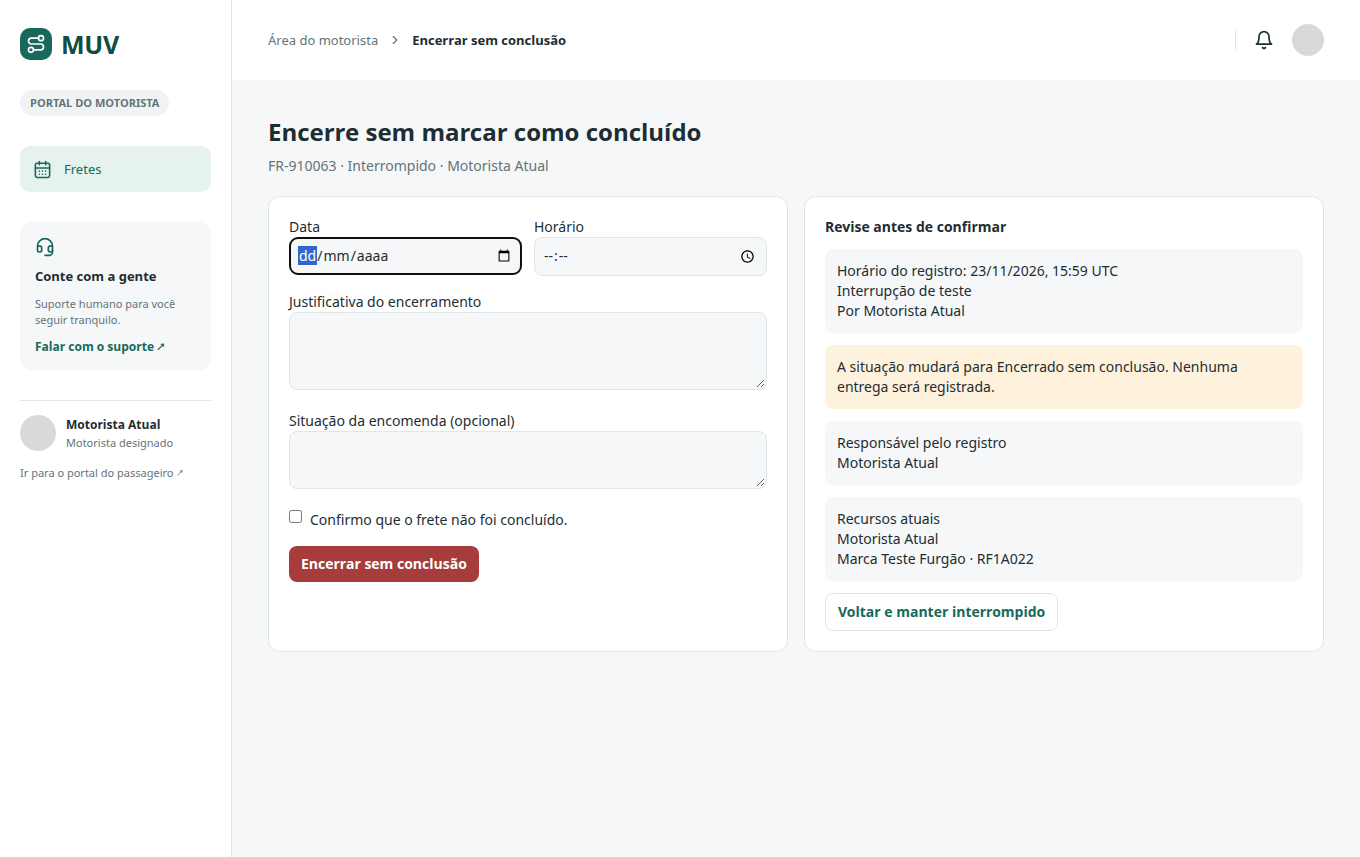
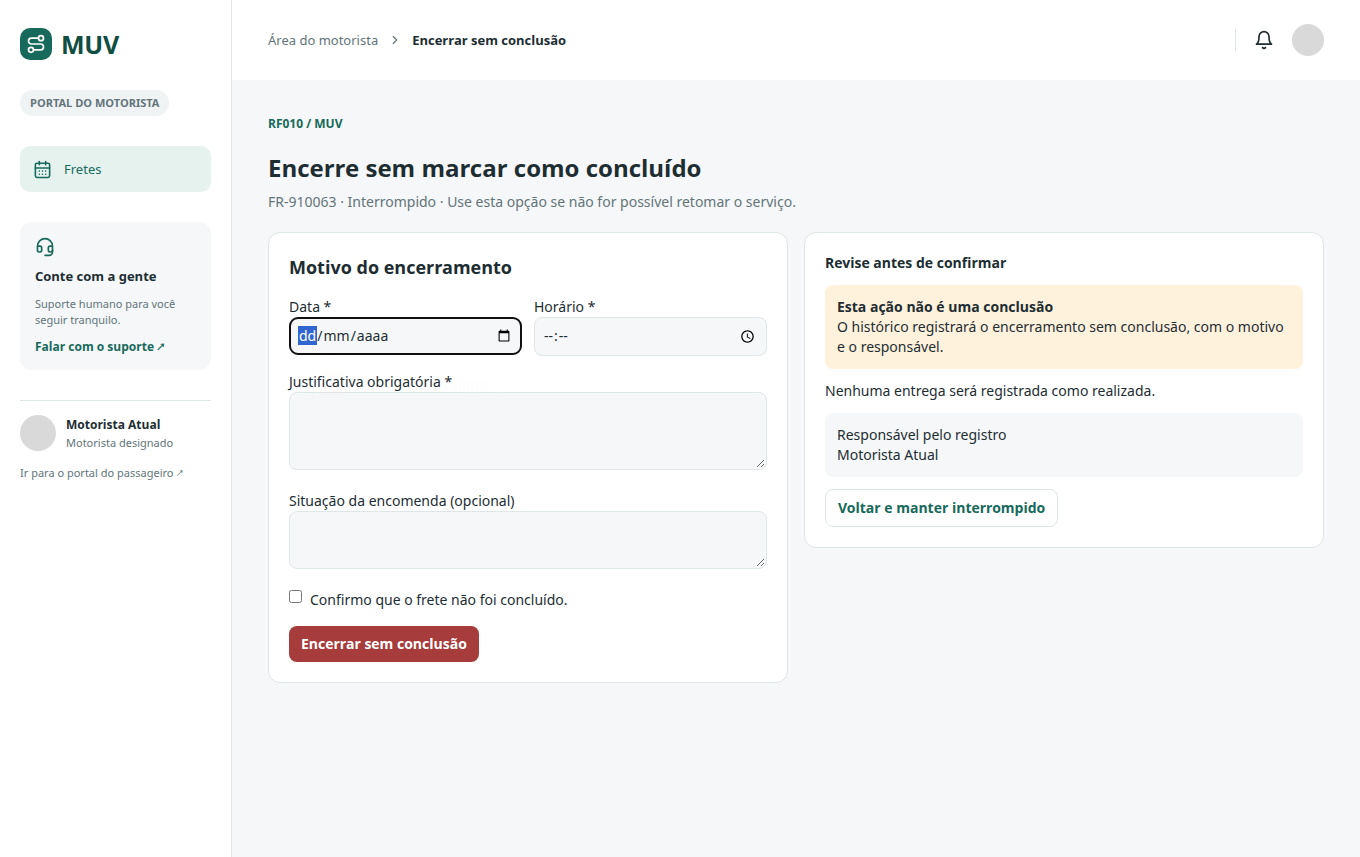
Avança na finalização do RF010

diff --git a/frontend/src/features/execucao/FormularioExecucao.tsx b/frontend/src/features/execucao/FormularioExecucao.tsx
@@ -37,6 +37,7 @@ export type DadosFormulario = {
   horario: string;
   confirmou: boolean;
   situacaoEncomenda?: string;
+  localOcorrencia?: string;
 };
 
 type Props = {
@@ -71,6 +72,7 @@ export function FormularioExecucao({
       acao, texto: String(campos.get("texto") ?? ""), data: String(campos.get("data") ?? ""),
       horario: String(campos.get("horario") ?? ""), confirmou: campos.has("confirmou"),
       situacaoEncomenda: situacao.trim() ? situacao : undefined,
+      localOcorrencia: String(campos.get("localOcorrencia") ?? "").trim() || undefined,
     };
   }
 
@@ -134,7 +136,8 @@ export function FormularioExecucao({
           </label>
           {!interrompido && <label className="block text-sm font-medium">
             Local da ocorrência
-            <input className={campo} disabled placeholder="Indisponível para registro" />
+            <input name="localOcorrencia" className={campo} defaultValue={rascunho?.localOcorrencia}
+              disabled={enviando} readOnly={somenteReenvio} />
           </label>}
           {acao === "RETOMADA" && contexto.recursos && (
             <div className="rounded-lg bg-[#e5f2ee] p-3 text-sm">

diff --git a/frontend/src/features/execucao/AcompanhamentoExecucaoPage.tsx b/frontend/src/features/execucao/AcompanhamentoExecucaoPage.tsx
@@ -176,6 +176,12 @@ function ResumoExecucao({ dados, recibo, onAcao }: {
                 <li className="break-words py-3" key={evento.id}>
                   <p className="font-medium">{rotulos[evento.tipo]}</p>
                   <p>Por {evento.autor}</p>
+                  {evento.horarioInformado && <p>Horário informado: <time dateTime={evento.horarioInformado}>{
+                    new Intl.DateTimeFormat("pt-BR", { dateStyle: "short", timeStyle: "short", timeZone: "UTC" })
+                      .format(new Date(`${evento.horarioInformado}Z`))
+                  }</time></p>}
+                  {evento.localOcorrencia && <p>Local da ocorrência: {evento.localOcorrencia}</p>}
+                  {evento.situacaoEncomenda && <p>Situação da encomenda: {evento.situacaoEncomenda}</p>}
                   {evento.descricao && <p>{evento.descricao}</p>}
                   {evento.justificativa && <p>{evento.justificativa}</p>}
                 </li>

diff --git a/frontend/src/features/execucao/api.ts b/frontend/src/features/execucao/api.ts
@@ -18,6 +18,9 @@ export type EventoExecucao = {
   descricao: string | null;
   justificativa: string | null;
   horarioRegistro: string | null;
+  horarioInformado: string | null;
+  localOcorrencia: string | null;
+  situacaoEncomenda: string | null;
 };
 
 export type Acompanhamento = {
@@ -67,7 +70,7 @@ export type ComandoTransicao = ComandoInicio & {
   data: string;
   horario: string;
 } & ({ descricao: string } | { justificativa: string })
-  & ({ cicloExecucaoId: number } | { interrupcaoId: number; confirmou: boolean; situacaoEncomenda?: string });
+  & ({ cicloExecucaoId: number; localOcorrencia?: string } | { interrupcaoId: number; confirmou: boolean; situacaoEncomenda?: string });
 
 export type TransicaoConfirmada = {
   eventoId: number;

diff --git a/frontend/src/features/execucao/TransicaoFormulario.tsx b/frontend/src/features/execucao/TransicaoFormulario.tsx
@@ -41,7 +41,7 @@ export function TransicaoFormulario({ contexto, acao, onConfirmada, onVoltar, on
       tentativa.current ??= {
         ...base(),
         ...(usaCiclo
-          ? { cicloExecucaoId: referencia }
+          ? { cicloExecucaoId: referencia, localOcorrencia: dados.localOcorrencia }
           : { interrupcaoId: referencia, confirmou: dados.confirmou, situacaoEncomenda: dados.situacaoEncomenda }),
         ...(selecionada === "OCORRENCIA" ? { descricao: dados.texto } : { justificativa: dados.texto }),
         data: dados.data,

diff --git a/backend/src/main/java/com/muv/backend/execucao/ExecucaoFreteRepository.java b/backend/src/main/java/com/muv/backend/execucao/ExecucaoFreteRepository.java
@@ -58,6 +58,9 @@ public class ExecucaoFreteRepository {
     List<ExecucaoFreteService.Evento> consultarEventos(long freteId) {
         return db.sql("""
                 SELECT h.id, h.tipo_evento, autor.nome AS autor, h.descricao, h.justificativa,
+                       COALESCE(ro.data_hora_informada, ri.data_hora_informada, rr.data_hora_informada,
+                                re.data_hora_informada) AS horario_informado,
+                       COALESCE(ro.local_ocorrencia, ri.local_ocorrencia) AS local_ocorrencia, re.situacao_encomenda,
                        CASE WHEN ini.evento_id IS NOT NULL OR ro.evento_id IS NOT NULL OR ri.evento_id IS NOT NULL OR rr.evento_id IS NOT NULL
                               OR re.evento_id IS NOT NULL THEN h.data_hora END AS registro_utc
                 FROM historico_execucao_frete h
@@ -78,7 +81,9 @@ public class ExecucaoFreteRepository {
                     return new ExecucaoFreteService.Evento(
                             rs.getLong("id"), Acao.valueOf(rs.getString("tipo_evento")),
                             rs.getString("autor"), rs.getString("descricao"), rs.getString("justificativa"),
-                            registroUtc == null ? null : registroUtc.atOffset(ZoneOffset.UTC));
+                            registroUtc == null ? null : registroUtc.atOffset(ZoneOffset.UTC),
+                            rs.getObject("horario_informado", LocalDateTime.class),
+                            rs.getString("local_ocorrencia"), rs.getString("situacao_encomenda"));
                 })
                 .list();
     }
@@ -101,30 +106,30 @@ public class ExecucaoFreteRepository {
 
     record Recibo(Acao acao, long eventoId, long autorId, String texto, Long referenciaId,
                   Long revisaoDesignacao, String estadoAnterior, String estadoResultante,
-                  LocalDateTime dataHoraInformada, String situacaoEncomenda) {}
+                  LocalDateTime dataHoraInformada, String situacaoEncomenda, String localOcorrencia) {}
 
     Optional<Recibo> consultarRecibo(long freteId, UUID chave) {
         return db.sql("""
                 SELECT e.tipo_evento, r.evento_id, e.usuario_autor_id, CASE WHEN e.tipo_evento = 'OCORRENCIA' THEN e.descricao ELSE e.justificativa END AS texto, r.referencia_id,
-                       r.revisao_designacao, r.estado_anterior, r.estado_resultante, r.data_hora_informada, r.situacao_encomenda
+                       r.revisao_designacao, r.estado_anterior, r.estado_resultante, r.data_hora_informada, r.situacao_encomenda, r.local_ocorrencia
                 FROM (
                     SELECT frete_id, evento_id, ciclo_execucao_id AS referencia_id, revisao_designacao,
-                           estado_anterior, estado_resultante, data_hora_informada, CAST(NULL AS text) AS situacao_encomenda
+                           estado_anterior, estado_resultante, data_hora_informada, CAST(NULL AS text) AS situacao_encomenda, local_ocorrencia
                     FROM rf010_recibo_ocorrencia WHERE frete_id = :freteId AND chave_operacao = :chave
                     UNION ALL
-                    SELECT frete_id, evento_id, NULL, revisao_designacao, estado_anterior, estado_resultante, NULL, NULL
+                    SELECT frete_id, evento_id, NULL, revisao_designacao, estado_anterior, estado_resultante, NULL, NULL, NULL
                     FROM rf010_recibo_inicio WHERE frete_id = :freteId AND chave_operacao = :chave
                     UNION ALL
                     SELECT frete_id, evento_id, ciclo_execucao_id, revisao_designacao,
-                           estado_anterior, estado_resultante, data_hora_informada, CAST(NULL AS text)
+                           estado_anterior, estado_resultante, data_hora_informada, CAST(NULL AS text), local_ocorrencia
                     FROM rf010_recibo_interrupcao WHERE frete_id = :freteId AND chave_operacao = :chave
                     UNION ALL
                     SELECT frete_id, evento_id, interrupcao_id, revisao_designacao,
-                           estado_anterior, estado_resultante, data_hora_informada, CAST(NULL AS text)
+                           estado_anterior, estado_resultante, data_hora_informada, CAST(NULL AS text), NULL
                     FROM rf010_recibo_retomada WHERE frete_id = :freteId AND chave_operacao = :chave
                     UNION ALL
                     SELECT frete_id, evento_id, interrupcao_id, revisao_designacao,
-                           estado_anterior, estado_resultante, data_hora_informada, situacao_encomenda
+                           estado_anterior, estado_resultante, data_hora_informada, situacao_encomenda, NULL
                     FROM rf010_recibo_encerramento WHERE frete_id = :freteId AND chave_operacao = :chave
                 ) r
                 JOIN historico_execucao_frete e ON e.id = r.evento_id AND e.frete_id = r.frete_id
@@ -134,7 +139,7 @@ public class ExecucaoFreteRepository {
                         rs.getLong("usuario_autor_id"), rs.getString("texto"), rs.getObject("referencia_id", Long.class),
                         rs.getLong("revisao_designacao"), rs.getString("estado_anterior"),
                         rs.getString("estado_resultante"), rs.getObject("data_hora_informada", LocalDateTime.class),
-                        rs.getString("situacao_encomenda")))
+                        rs.getString("situacao_encomenda"), rs.getString("local_ocorrencia")))
                 .optional();
     }
 
@@ -162,7 +167,7 @@ public class ExecucaoFreteRepository {
     }
 
     void gravarRecibo(long freteId, Acao acao, UUID chave, long eventoId, Contexto contexto,
-                      Long referencia, LocalDateTime dataHoraInformada, String situacaoEncomenda) {
+                      Long referencia, LocalDateTime dataHoraInformada, String situacaoEncomenda, String localOcorrencia) {
         if (acao == Acao.INICIO) {
             db.sql("""
                     INSERT INTO rf010_recibo_inicio
@@ -187,13 +192,14 @@ public class ExecucaoFreteRepository {
                     (frete_id, chave_operacao, evento_id, %s, revisao_designacao,
                      estado_anterior, estado_resultante, data_hora_informada%s)
                 VALUES (:freteId, :chave, :eventoId, :referencia, :revisao, :anterior, :resultante, :dataHora%s)
-                """.formatted(tabela, colunaReferencia, encerramento ? ", situacao_encomenda" : "",
-                              encerramento ? ", :situacao" : ""))
+                """.formatted(tabela, colunaReferencia, encerramento ? ", situacao_encomenda" : acao.usaCicloExecucao() ? ", local_ocorrencia" : "",
+                              encerramento ? ", :situacao" : acao.usaCicloExecucao() ? ", :local" : ""))
                 .param("freteId", freteId).param("chave", chave).param("eventoId", eventoId)
                 .param("referencia", referencia).param("revisao", contexto.revisaoDesignacao())
                 .param("anterior", contexto.estado()).param("resultante", acao.estadoResultante())
                 .param("dataHora", dataHoraInformada);
         if (encerramento) insert = insert.param("situacao", situacaoEncomenda, java.sql.Types.VARCHAR);
+        if (acao.usaCicloExecucao()) insert = insert.param("local", localOcorrencia, java.sql.Types.VARCHAR);
         insert.update();
     }
 }

diff --git a/backend/src/main/java/com/muv/backend/execucao/TransicaoFreteService.java b/backend/src/main/java/com/muv/backend/execucao/TransicaoFreteService.java
@@ -26,7 +26,11 @@ public class TransicaoFreteService {
     public record Comando(
             UUID chaveOperacao, String estadoEsperado, Long revisaoDesignacao, Long cicloExecucaoId,
             String descricao, String justificativa, LocalDate data, LocalTime horario,
-            Long interrupcaoId, Boolean confirmou, String situacaoEncomenda) {
+            Long interrupcaoId, Boolean confirmou, String situacaoEncomenda, String localOcorrencia) {
+        public Comando {
+            localOcorrencia = localOcorrencia == null || localOcorrencia.isBlank() ? null : localOcorrencia.strip();
+        }
+
         String texto(Acao acao) {
             return acao == Acao.OCORRENCIA ? descricao : justificativa;
         }
@@ -69,6 +73,7 @@ public class TransicaoFreteService {
                     || !Objects.equals(original.revisaoDesignacao(), comando.revisaoDesignacao())
                     || !Objects.equals(original.referenciaId(), comando.referencia(acao))
                     || !Objects.equals(original.texto(), comando.texto(acao))
+                    || !Objects.equals(original.localOcorrencia(), comando.localOcorrencia())
                     || !Objects.equals(original.situacaoEncomenda(), comando.situacaoEncomenda())
                     || !Objects.equals(original.dataHoraInformada(), comando.dataHoraInformada())) {
                 throw conflito("A chave já foi usada em outra confirmação.");
@@ -82,6 +87,7 @@ public class TransicaoFreteService {
                 || !RegrasExecucao.dadosValidos(acao, comando.texto(acao), comando.data(),
                         comando.horario(), Boolean.TRUE.equals(comando.confirmou()))
                 || (!inicio && comando.horario().getNano() % 1_000 != 0)
+                || (comando.localOcorrencia() != null && !acao.usaCicloExecucao())
                 || (comando.situacaoEncomenda() != null
                     && (acao != Acao.ENCERRAMENTO_SEM_CONCLUSAO || !"ENCOMENDA".equals(frete.modalidade())))) {
             throw new ResponseStatusException(HttpStatus.BAD_REQUEST, "Verifique os dados e a confirmação do formulário.");
@@ -101,7 +107,7 @@ public class TransicaoFreteService {
 
         long eventoId = repositorio.gravarEvento(frete, autorId, acao, comando.texto(acao));
         repositorio.gravarRecibo(freteId, acao, comando.chaveOperacao(), eventoId, vigente,
-                referencia, comando.dataHoraInformada(), comando.situacaoEncomenda());
+                referencia, comando.dataHoraInformada(), comando.situacaoEncomenda(), comando.localOcorrencia());
         return new Resultado(eventoId, autorId, vigente.estado(), acao.estadoResultante());
     }
 

diff --git a/backend/src/test/java/com/muv/backend/execucao/TransicaoFreteIntegrationTest.java b/backend/src/test/java/com/muv/backend/execucao/TransicaoFreteIntegrationTest.java
@@ -210,6 +210,24 @@ class TransicaoFreteIntegrationTest {
     }
 
     @Test
+    void localEHorarioCivilFicamNoAcompanhamentoAutorizado() throws Exception {
+        var motorista = entrar("atual");
+        var rota = ROTA + "/ocorrencias";
+        var comando = dados(UUID.randomUUID()).replace("justificativa", "descricao")
+                .replace("}", ", \"localOcorrencia\":\"Km 44\"}");
+        var original = enviarComando(rota, motorista, comando, 200).getResponse().getContentAsString();
+        assertThat(enviarComando(rota, motorista, comando, 200).getResponse().getContentAsString()).isEqualTo(original);
+        enviarComando(rota, motorista, comando.replace("Km 44", "Km 45"), 409);
+        mvc.perform(get(ROTA).session(motorista.session())).andExpect(status().isOk())
+                .andExpect(jsonPath("$.eventos[0].localOcorrencia").value("Km 44"))
+                .andExpect(jsonPath("$.eventos[0].horarioInformado").value("2000-01-02T09:15:00"))
+                .andExpect(jsonPath("$.eventos[0].horarioRegistro").isNotEmpty());
+        var historico = mvc.perform(get("/api/historico-fretes").param("perfil", "CLIENTE")
+                        .session(entrar("cliente").session())).andExpect(status().isOk()).andReturn();
+        assertThat(historico.getResponse().getContentAsString()).doesNotContain("Km 44");
+    }
+
+    @Test
     void ocorrenciasComMesmoConteudoDistinguemReenvioDeNovaConfirmacao() throws Exception {
         var sessao = entrar("atual");
         String rota = ROTA + "/ocorrencias";
@@ -500,7 +518,7 @@ class TransicaoFreteIntegrationTest {
                 .andExpect(jsonPath("$.estado").value("ENCERRADO_SEM_CONCLUSAO"))
                 .andExpect(jsonPath("$.eventos[0].tipo").value("ENCERRAMENTO_SEM_CONCLUSAO"))
                 .andExpect(jsonPath("$.acoesElegiveis").isEmpty()).andReturn();
-        assertThat(consulta.getResponse().getContentAsString()).doesNotContain("No veículo");
+        assertThat(consulta.getResponse().getContentAsString()).contains("No veículo");
         var historico = mvc.perform(get("/api/historico-fretes").session(entrar("cliente").session())
                         .param("perfil", "CLIENTE"))
                 .andExpect(status().isOk()).andReturn().getResponse().getContentAsString();

diff --git a/backend/src/test/java/com/muv/backend/execucao/ExecucaoFreteIntegrationTest.java b/backend/src/test/java/com/muv/backend/execucao/ExecucaoFreteIntegrationTest.java
@@ -117,6 +117,38 @@ class ExecucaoFreteIntegrationTest {
                 .andExpect(jsonPath("$.acoesElegiveis").isEmpty());
     }
 
+    @Test
+    void consultaLegadoEmExecucaoSemEventoDeAbertura() throws Exception {
+        db.sql("DELETE FROM historico_execucao_frete WHERE id = 910073").update();
+        mvc.perform(get(execucao(910063)).session(login("empresa")))
+                .andExpect(status().isOk())
+                .andExpect(jsonPath("$.estado").value("EM_EXECUCAO"))
+                .andExpect(jsonPath("$.cicloExecucaoId").doesNotExist())
+                .andExpect(jsonPath("$.acoesElegiveis").isEmpty())
+                .andExpect(jsonPath("$.eventos[0].id").value(910074))
+                .andExpect(jsonPath("$.eventos[0].horarioRegistro").doesNotExist());
+    }
+
+    @Test
+    void designacaoDoAutonomoAindaBloqueiaOFluxoAntesDoInicio() throws Exception {
+        var sessao = login("autonomo");
+        var csrf = mvc.perform(get("/api/auth/csrf").session(sessao)).andExpect(status().isOk()).andReturn();
+        var token = json.readTree(csrf.getResponse().getContentAsString());
+        mvc.perform(post("/api/prestador/fretes/910064/designacao").session(sessao)
+                        .header(token.get("headerName").asString(), token.get("token").asString())
+                        .contentType("application/json")
+                        .content("""
+                                {"motoristaId":910011,"veiculoId":910021,"revisao":0}
+                                """))
+                .andExpect(status().is(422))
+                .andExpect(result -> assertThat(result.getResponse().getErrorMessage())
+                        .contains("A identidade de motorista do autônomo ainda não está associada"));
+        mvc.perform(get(execucao(910064)).session(sessao))
+                .andExpect(status().isOk())
+                .andExpect(jsonPath("$.estado").value("AGUARDANDO_DESIGNACAO"))
+                .andExpect(jsonPath("$.acoesElegiveis").isEmpty());
+    }
+
     private MockHttpSession login(String conta) throws Exception {
         String email = conta + "910@example.test";
         db.sql("UPDATE usuario SET senha = :senha WHERE email = :email")

diff --git a/backend/src/main/java/com/muv/backend/execucao/ExecucaoFreteService.java b/backend/src/main/java/com/muv/backend/execucao/ExecucaoFreteService.java
@@ -29,7 +29,8 @@ public class ExecucaoFreteService {
 
     public record Recursos(String motorista, String veiculo, String placa) {}
     public record Evento(long id, Acao tipo, String autor, String descricao, String justificativa,
-                         OffsetDateTime horarioRegistro) {}
+                         OffsetDateTime horarioRegistro, java.time.LocalDateTime horarioInformado,
+                         String localOcorrencia, String situacaoEncomenda) {}
     public record Acompanhamento(
             long freteId, String modalidade, String estado, long revisaoDesignacao,
             Recursos recursos, Long cicloExecucaoId, Long interrupcaoId, List<Evento> eventos,

diff --git a/backend/src/test/java/com/muv/backend/system/PercursoExecucaoNavigationTest.java b/backend/src/test/java/com/muv/backend/system/PercursoExecucaoNavigationTest.java
@@ -159,7 +159,7 @@ class PercursoExecucaoNavigationTest extends NavegacaoExecucaoFixture {
             driver.switchTo().newWindow(org.openqa.selenium.WindowType.TAB);
             driver.get(rota);
             clicar(driver, "Registrar interrupção");
-            tecladoECaptura(driver, "interrupcao", List.of("tipo","data","horario","texto","submit","voltar"));
+            tecladoECaptura(driver, "interrupcao", List.of("tipo","data","horario","texto","localOcorrencia","submit","voltar"));
             preencher(driver, "Interrupção de teste");
             clicar(driver, "Registrar e interromper execução");
             esperarTexto(driver, "Interrupção registrada.");

diff --git a/backend/src/test/java/com/muv/backend/system/EncerramentoFreteNavigationTest.java b/backend/src/test/java/com/muv/backend/system/EncerramentoFreteNavigationTest.java
@@ -70,7 +70,7 @@ class EncerramentoFreteNavigationTest extends NavegacaoExecucaoFixture {
             driver.navigate().refresh();
             verificarResultado(driver, 910062);
             assertThat(driver.findElement(By.tagName("main")).getText())
-                    .contains("Via segue bloqueada").doesNotContain("Sob guarda do prestador");
+                    .contains("Via segue bloqueada", "Sob guarda do prestador");
             assertThat(db.sql("""
                     SELECT situacao_encomenda FROM rf010_recibo_encerramento WHERE frete_id = 910062
                     """).query(String.class).single()).isEqualTo("Sob guarda do prestador");

diff --git a/openspec/changes/rf010-acompanhamento-execucao-ocorrencias/implementation-report.md b/openspec/changes/rf010-acompanhamento-execucao-ocorrencias/implementation-report.md
@@ -240,14 +240,39 @@ Para repetir a seleção de navegador documentada acima, incluir `PercursoExecuc
 
 Resultado final: **76 testes de backend, 9 Selenium e 9 Node aprovados**, sem falhas, erros ou casos ignorados nas seleções. Passaram também o build do frontend, o ESLint da feature, OpenSpec estrito e `git diff --check`. Foram fechados **3.3, 4.1, 5.3, 5.5, 6.1, 6.5, 7.1, 7.4 e 8.1**. O checklist passou de 21 para **30 de 39**. Permanecem abertos **1.4, 2.1, 2.3, 2.4, 4.5, 5.4, 6.2, 7.5 e 8.2**.
 
-### Referências aprovadas para a conferência visual
+### Comparação com os três JPEGs aprovados
 
-A dupla indicou os três JPEGs como referências aprovadas de desktop. Nesta pasta de trabalho estão disponíveis as seis capturas da aplicação. Os títulos abaixo foram lidos nas capturas da aplicação. Falta conferir os títulos nos JPEGs e registrar, lado a lado, campos, obrigatoriedade, textos, avisos, ações e painéis.
+As referências fornecidas pela dupla estão preservadas em `evidencias/referencias/`. O pareamento foi feito pelos títulos visíveis no conteúdo desktop dos JPEGs. Os nomes, placas, horários, frete e dados de encomenda da referência são exemplos. A aplicação usa os dados da sessão e do frete.
 
-| Título na aplicação | Desktop para comparação | Responsividade a 390 px |
-| --- | --- | --- |
-| Registre uma ocorrência | [Registro e interrupção](evidencias/interrupcao-1360.png) | [Painéis empilhados](evidencias/interrupcao-390.png) |
-| Retome a execução com segurança | [Retomada](evidencias/retomada-1360.png) | [Painéis empilhados](evidencias/retomada-390.png) |
-| Encerre sem marcar como concluído | [Encerramento](evidencias/encerramento-1360.png) | [Painéis empilhados](evidencias/encerramento-390.png) |
+| Referência e tela | Diferenças encontradas na captura anterior e ajustes no RF010 |
+| --- | --- |
+| [1000407677.jpg — Registre uma ocorrência](evidencias/referencias/1000407677.jpg) · [Desktop](evidencias/interrupcao-1360.png) · [390 px](evidencias/interrupcao-390.png) | O tipo estava fixo e faltavam o título “O que aconteceu?”, os indicadores de obrigatoriedade, o local e a explicação do histórico. O seletor agora permite ocorrência e interrupção conforme a elegibilidade. Tipo, data, horário e descrição ou justificativa são obrigatórios. O painel “Efeito deste registro” mostra a consequência da seleção e os recursos atuais. No modo de interrupção, as ações são “Registrar e interromper execução” e “Voltar sem registrar”. O local aparece desabilitado enquanto se decide sua coleta (P3). |
+| [1000407679.jpg — Retome a execução com segurança](evidencias/referencias/1000407679.jpg) · [Desktop](evidencias/retomada-1360.png) · [390 px](evidencias/retomada-390.png) | Faltavam o título “Registro de retomada”, as marcas nos campos e o texto sobre inclusão da justificativa no histórico. À esquerda ficam data, horário, justificativa, recursos compatíveis, aceite obrigatório de prosseguimento e “Confirmar retomada”. À direita ficam a interrupção em aberto com motivo e autoria, o efeito “Após confirmar: Em execução” e “Voltar ao acompanhamento”. O subtítulo usa o horário de registro disponível em UTC. O significado e o fuso do horário civil informado dependem de P2. |
+| [1000407681.jpg — Encerre sem marcar como concluído](evidencias/referencias/1000407681.jpg) · [Desktop](evidencias/encerramento-1360.png) · [390 px](evidencias/encerramento-390.png) | A captura anterior trazia interrupção e recursos extras no painel de revisão. O formulário ganhou “Motivo do encerramento”, a orientação sobre impossibilidade de retomada e as marcas nos campos obrigatórios. Data, horário, justificativa e aceite de não conclusão são exigidos. A situação da encomenda é opcional e específica da modalidade. O painel “Revise antes de confirmar” destaca “Esta ação não é uma conclusão”, o registro do motivo e do responsável, a ausência de entrega e o autor autenticado. A confirmação vermelha e “Voltar e manter interrompido” mantêm as ações do JPEG. |
 
-A verificação a 390 px corresponde ao teste de responsividade já executado. A comparação direta de desktop continua pendente nos itens 1.4, 6.2 e 7.5. Em 1.4 e 6.2, P2 ainda trata do significado e fuso do horário informado, e P3 da persistência e visibilidade dos campos auxiliares.
+Nos três casos, o formulário fica à esquerda e o painel explicativo à direita no desktop. A identificação RF010 / MUV foi restabelecida. As capturas de teste usam o portal restrito do motorista, enquanto os JPEGs mostram o portal do prestador. O layout de conta permanece vinculado ao perfil real. Os avisos descrevem os efeitos persistidos pelo RF010. A promessa de notificar destinatários exibida nos três JPEGs depende do contrato com RF013 (P4). Os campos começam vazios e os aceites desmarcados para exigir confirmação do usuário.
+
+A 390 px, o critério é responsividade: o painel de efeito ou revisão passa para baixo do formulário e os controles permanecem acessíveis pela rolagem. Os JPEGs são referências apenas de desktop.
+
+O build, o ESLint de `src/features/execucao` e o cenário Selenium `PercursoExecucaoNavigationTest#ciclosNavegacaoTecladoERecuperacao` passaram nesta revisão. O cenário percorreu os controles com Tab e Shift+Tab, conferiu o foco no campo obrigatório, nos alertas e no recibo, verificou os retornos e a recuperação da consulta, e confirmou o empilhamento a 390 px. As seis capturas foram renovadas e inspecionadas. O painel da direita exige rolagem na janela estreita. A execução mais ampla de Selenium foi interrompida e o resultado desta revisão corresponde ao cenário isolado.
+
+A comparação com os três JPEGs conclui P6 e a tarefa **7.5**. O checklist passa a **31 de 39**. **1.4** e **6.2** seguem abertas pelas decisões P2 e P3, com a parte visual registrada acima. A política de notificações segue P4.
+
+### Aceite das oito tarefas restantes
+
+O fechamento depende das decisões abaixo. Os testes existentes de persistência e idempotência verificam o comportamento sob os contratos atuais.
+
+| Tarefas | Evidência e decisão necessária |
+| --- | --- |
+| 1.4, 2.4, 6.2 | A inspeção dos JPEGs e a validação de data e hora obrigatórias estão concluídas. A data e hora informadas ficam no recibo, separadas do instante de registro. Para P2, a proposta é preservar o valor civil informado no recibo, manter o instante de auditoria em UTC e definir qual horário o RF014 deve apresentar. Para P3, a proposta é guardar o local opcional e a situação da encomenda em dados privados do RF010, com acesso pelo prestador e pelo motorista designado. A coleta de local segue desabilitada até a decisão. |
+| 2.1, 2.3 | Os recibos ligam eventos, estados e referências de ciclo. Os percursos do RF010 confirmam a leitura dos fatos pelo endpoint do RF014. Falta Josué aprovar a semântica compartilhada e o tratamento de legados. A proposta é manter a leitura de registros antigos e condicionar comandos que exigem ciclo à existência de evento de abertura verificável. |
+| 4.5, 5.4 | Interrupção, retomada e encerramento já gravam um único fato por confirmação e o replay recupera o identificador original. A proposta para Rafael é consumir esses fatos pelo ID de `historico_execucao_frete` e deduplicar a entrega por evento e destinatário. Falta acordar destinatários e política de reenvio do RF013. |
+| 8.2 | A designação do autônomo depende de RF002/RF009. A proposta para P1 é usar a conta autenticada como autora e apresentar o papel de motorista para o início, que exige esse vínculo. O percurso completo precisa da associação real entre a conta e o motorista e da designação liberada no RF009. |
+
+Passaram **42 testes** com PostgreSQL de teste. `consultaLegadoEmExecucaoSemEventoDeAbertura` confirmou que o histórico existente continua legível e que um ciclo sem abertura verificável fica sem ações disponíveis. `designacaoDoAutonomoAindaBloqueiaOFluxoAntesDoInicio` confirmou HTTP 422 no POST de designação e frete em `AGUARDANDO_DESIGNACAO` após a recusa. OpenSpec estrito e `git diff --check` passaram. O checklist permanece em **31 de 39** até o aceite das decisões e a liberação da dependência.
+
+### Decisões de horário e campos privados
+
+O horário civil informado aparece no acompanhamento do RF010 com rótulo próprio e sem deslocamento pelo fuso do navegador. O instante de auditoria conserva sua semântica de registro em UTC. A V16 acrescenta o local opcional aos recibos de ocorrência e interrupção. O campo entra na verificação de idempotência e aparece, junto da situação opcional da encomenda, apenas no acompanhamento protegido do RF010. O RF014 mantém sua projeção anterior. A asserção do RF014 verifica que o local e a situação da encomenda permanecem fora do histórico geral.
+
+Passaram 47 testes, incluindo 4 de Selenium. Passaram o build e o ESLint da feature. As seis capturas foram renovadas com o novo campo habilitado. Foram encerrados 1.4, 2.4 e 6.2. O checklist chegou a **34 de 39**. As tarefas 2.1/2.3 e 4.5/5.4 aguardam, respectivamente, o contrato compartilhado do histórico e o consumo efetivo pelo RF013. A 8.2 aguarda o vínculo de motorista próprio e a designação suportados por RF002/RF009.
